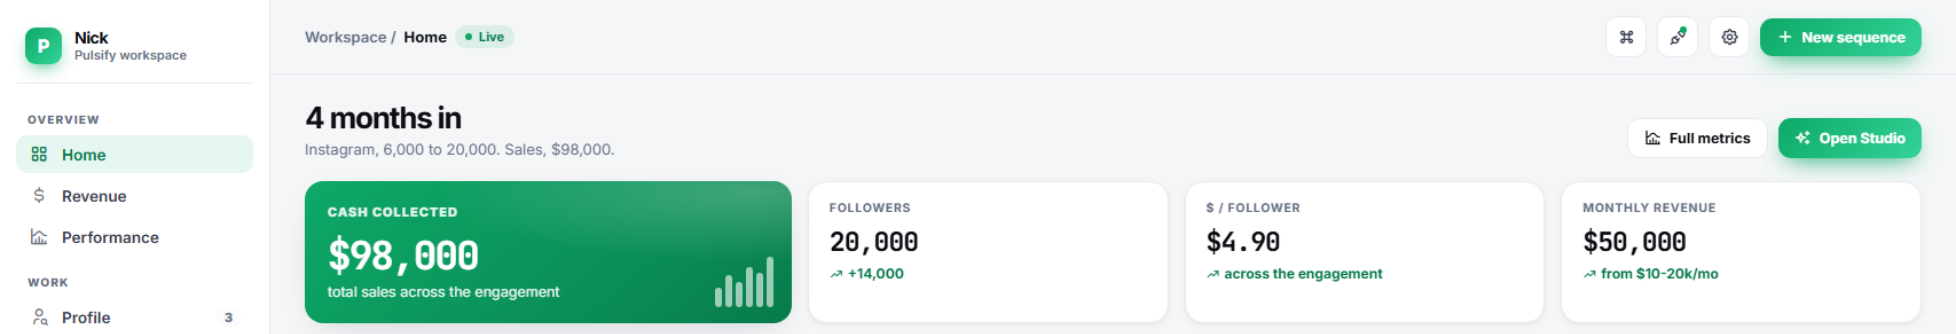
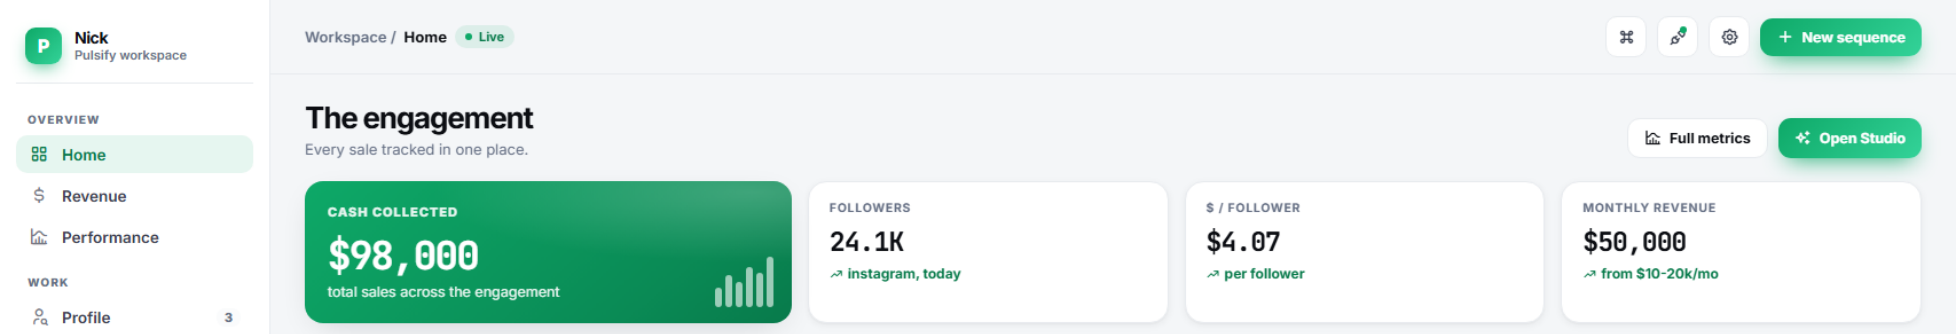
auto: checkpoint 2026-08-15 04:55:51

diff --git a/output/bergtrades-page/proof/nick-result.html b/output/bergtrades-page/proof/nick-result.html
@@ -588,7 +588,7 @@ main{min-width:0}
 
     <!-- HOME -->
     <section class="section panel active" data-panel="home">
-      <div class="h-row"><div><h1>4 months in</h1><p>Instagram, 6,000 to 20,000. Sales, $98,000.</p></div>
+      <div class="h-row"><div><h1>The engagement</h1><p>Every sale tracked in one place.</p></div>
         <div class="h-actions"><button class="btn btn-ghost" onclick="go('performance')"><i class="ti ti-chart-histogram"></i> Full metrics</button><button class="btn btn-primary" onclick="go('studio')"><i class="ti ti-sparkles"></i> Open Studio</button></div>
       </div>
       <div class="week-strip">
@@ -598,8 +598,8 @@ main{min-width:0}
           <div class="sub">total sales across the engagement</div>
           <div class="spark"><i style="height:40%"></i><i style="height:65%"></i><i style="height:50%"></i><i style="height:80%"></i><i style="height:70%"></i><i style="height:100%"></i></div>
         </div>
-        <div class="mini"><div class="lab">Followers</div><div class="v mono">20,000</div><div class="d up"><i class="ti ti-trending-up"></i> +14,000</div></div>
-        <div class="mini"><div class="lab">$ / follower</div><div class="v mono">$4.90</div><div class="d up"><i class="ti ti-trending-up"></i> across the engagement</div></div>
+        <div class="mini"><div class="lab">Followers</div><div class="v mono">24.1K</div><div class="d up"><i class="ti ti-trending-up"></i> instagram, today</div></div>
+        <div class="mini"><div class="lab">$ / follower</div><div class="v mono">$4.07</div><div class="d up"><i class="ti ti-trending-up"></i> per follower</div></div>
         <div class="mini"><div class="lab">Monthly revenue</div><div class="v mono">$50,000</div><div class="d up"><i class="ti ti-trending-up"></i> from $10-20k/mo</div></div>
       </div>
       <div class="next" style="margin-bottom:16px">
@@ -761,7 +761,7 @@ main{min-width:0}
       </div>
       <div class="insight card" style="margin-bottom:18px">
         <div class="insight-main">
-          <div class="insight-lab"><i class="ti ti-bulb"></i> 4 months in's read</div>
+          <div class="insight-lab"><i class="ti ti-bulb"></i> The engagement's read</div>
           <div class="diag-line"><div class="di" style="background:var(--accent-soft);color:var(--accent-ink)"><i class="ti ti-trophy"></i></div><div><b>Credibility is your best type.</b> 74% completion, 18 DMs a run. Student-result proof is carrying it.</div></div>
           <div class="diag-line"><div class="di" style="background:var(--rose-soft);color:var(--rose-ink)"><i class="ti ti-alert-triangle"></i></div><div><b>Value-driven leaks at slide 2.</b> The hook loses 41% before the payoff. This is a hook problem, not a topic problem.</div></div>
           <div class="diag-line"><div class="di" style="background:var(--indigo-soft);color:var(--indigo-ink)"><i class="ti ti-arrow-right"></i></div><div><b>The play.</b> Ship 2 more credibility sequences off your winning frame, then retest the value-driven opener.</div></div>
@@ -1301,7 +1301,7 @@ function openLog(){show('logModal')}
 
 /* ---------- command palette ---------- */
 const CMDS=[
- {g:'Go to',ic:'ti-layout-grid',t:'Home',s:'4 months in overview',run:()=>go('home')},
+ {g:'Go to',ic:'ti-layout-grid',t:'Home',s:'The engagement overview',run:()=>go('home')},
  {g:'Go to',ic:'ti-currency-dollar',t:'Revenue',s:'Payments and goal',run:()=>go('revenue')},
  {g:'Go to',ic:'ti-chart-histogram',t:'Performance',s:'Drop-off and leaderboard',run:()=>go('performance')},
  {g:'Go to',ic:'ti-user-search',t:'Profile',s:'Bio, proof, and CTA routing',run:()=>go('profile')},

diff --git a/clients/nick/overview.md b/clients/nick/overview.md
@@ -13,21 +13,33 @@ Stage when Pulsify started: $10K-$20K/month from trading alone, no consistent in
 Result: $50K/month (trading + info offer combined)
 Timeframe: approximately 3 months to consistent qualified leads
 
-## Headline numbers (founder-confirmed 2026-08-13)
+## Headline numbers
 
-| Metric | Figure |
-|---|---|
-| Total sales across the engagement | **$98,000** |
-| Instagram followers, start to finish | **6,000 -> 20,000 in 4 months** |
-| Sales per follower (derived) | $4.90 |
-| Monthly revenue | $10-20K/mo -> $50K/mo |
+| Metric | Figure | Status |
+|---|---|---|
+| Total sales across the engagement | **$98,000** | Founder-stated 2026-08-13, definite |
+| Instagram followers now | **24.1K** (19 posts, 641 following) | **Verified live 2026-08-13** off `@niicksfx` |
+| Sales per follower (derived) | $4.07 | $98,000 / 24,100 |
+| Monthly revenue | $10-20K/mo -> $50K/mo | From the video testimonial |
 
-These are the figures used in prospect assets. Rendered as a portal tile at
-`output/bergtrades-page/proof/nick-proof-tile.png`, built from the real client portal UI
-(`output/standard-preview/portal-preview/index.html`) rather than a mockup.
+> ⚠ **The starting follower count is NOT verified.** The founder recalls roughly 6,000 at the
+> start and said in the same breath "or sumn, I'm not sure." He also recalled the finish as 20,000
+> when the live account reads 24.1K. Treat 6K as a memory, not a figure. **Do not print a
+> before-and-after follower delta in a prospect asset until a real baseline surfaces.**
+>
+> This is the second time his recalled numbers have missed. See also the packaging case study,
+> where 200-subs-to-1k and "about 900 views" did not match the channel. Always pull the live
+> number.
 
-The platform for the 6K-to-20K figure is Instagram (`@niicksfx`). His YouTube channel is a
-separate, much smaller asset at 764 subscribers.
+No day-zero screenshot of his account exists, which is why `wiki/playbooks/prospect-signed-onboarding.md`
+step 8 now forces a baseline capture for every client.
+
+Prospect-asset tile: `output/bergtrades-page/proof/nick-proof-tile.png`, built from the real
+client portal UI (`output/standard-preview/portal-preview/index.html`) rather than a mockup.
+Crop to the metrics band; below it the portal carries demo task lists.
+
+His Instagram highlight rail is already close to the structure we recommend to prospects:
+Start Today, Students, Results, Mind | Health.
 
 ## What was done
 

diff --git a/claude-memory/project_nick_case_study.md b/claude-memory/project_nick_case_study.md
@@ -5,24 +5,31 @@ metadata:
   node_type: memory
   type: project
   originSessionId: 65194e69-79cf-4a94-92d3-160eea48e5ab
-  modified: 2026-08-15T01:18:17.703Z
+  modified: 2026-08-15T01:55:00.089Z
 ---
 
 Nick (Nicholas, `@niicksfx` on both IG and YouTube) is Pulsify's real client case study and the one to reach for when a prospect asset needs proof. Not FITFO, who ghosted ([[project_fitfo_carlos_deal]]).
 
 **The revenue result**, written up in `clients/nick/overview.md` with a confirmed video testimonial: $10-20k/month from trading alone to $50k/month from trading plus selling his information, roughly 3 months to consistent qualified leads.
 
-**The headline numbers for prospect assets** (founder-confirmed 2026-08-13):
+**The headline numbers for prospect assets:**
 
-| Metric | Figure |
-|---|---|
-| Total sales across the engagement | **$98,000** |
-| Instagram, start to finish | **6,000 -> 20,000 in 4 months** |
-| Sales per follower (derived) | $4.90 |
+| Metric | Figure | Status |
+|---|---|---|
+| Total sales across the engagement | **$98,000** | Founder-stated, definite |
+| Instagram followers now | **24.1K** | Verified live 2026-08-13 |
+| Sales per follower | $4.07 | Derived |
+| Monthly revenue | $10-20K -> $50K/mo | Video testimonial |
 
-Rendered as a portal tile at `output/bergtrades-page/proof/nick-proof-tile.png`, built from the
-real client portal UI, not a mockup. Crop to the metrics band only: below it the portal carries
-demo task lists that a reader would mistake for Nick's.
+**Do NOT print a follower before-and-after.** The founder recalls ~6,000 at the start but said
+"or sumn, I'm not sure", and recalled the finish as 20,000 when the live account is 24.1K.
+No day-zero screenshot exists. The starting number is memory, not data.
+
+**Third time his recalled numbers have missed** (200-subs-to-1k, ~900 views, now 20k vs 24.1K).
+Always pull the live figure before writing one down.
+
+Tile at `output/bergtrades-page/proof/nick-proof-tile.png`, built from the real client portal UI.
+Crop to the metrics band; below it are demo task lists a reader would mistake for Nick's.
 
 ## The packaging case study, founder-confirmed 2026-08-13
 
